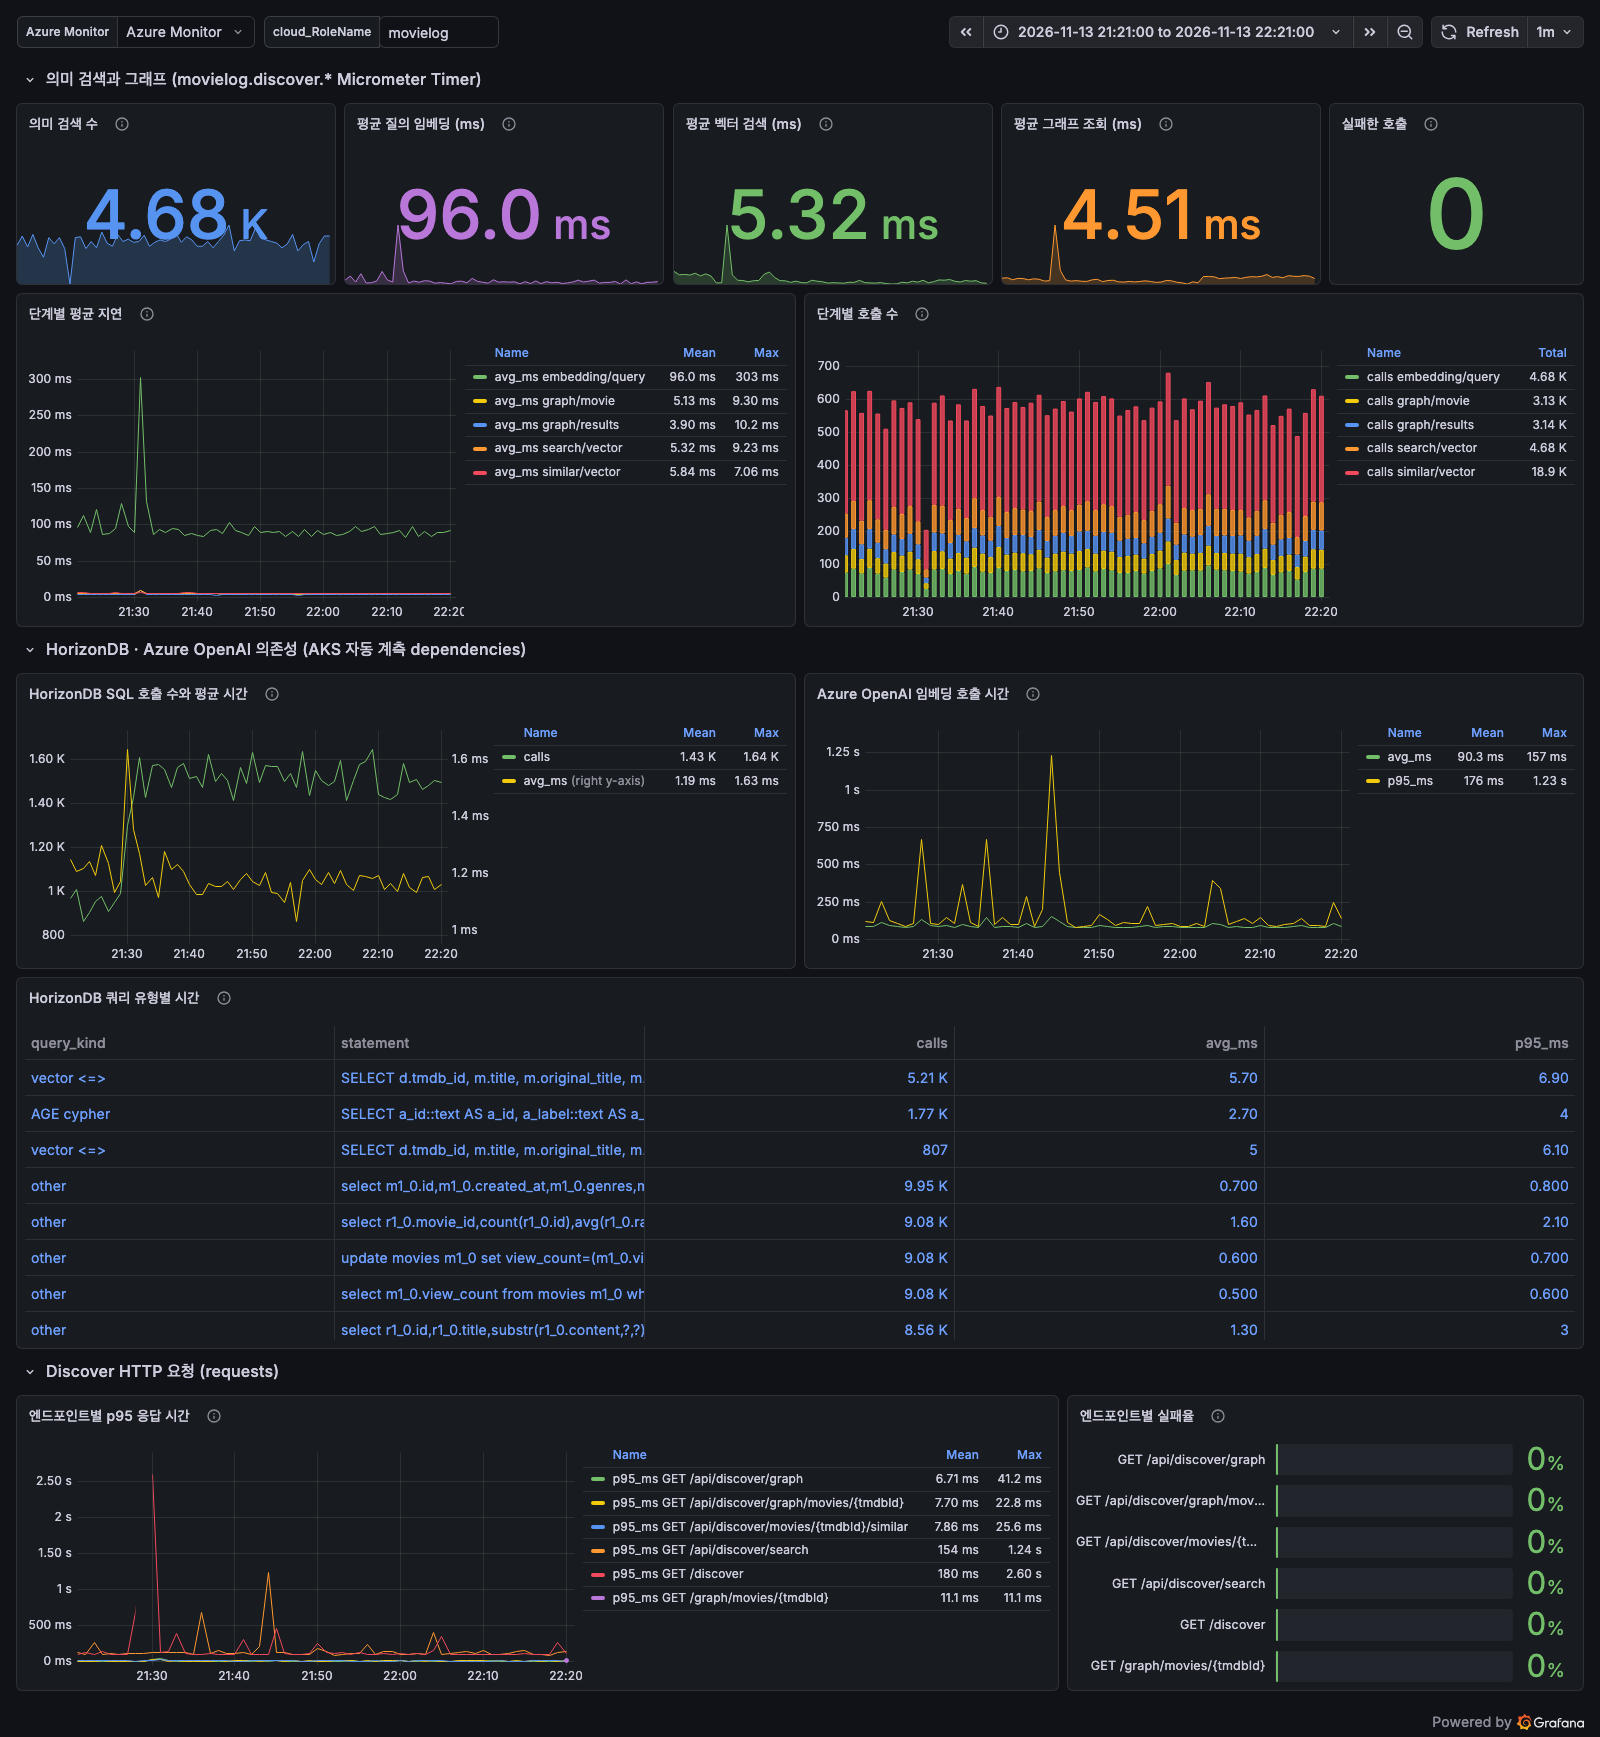
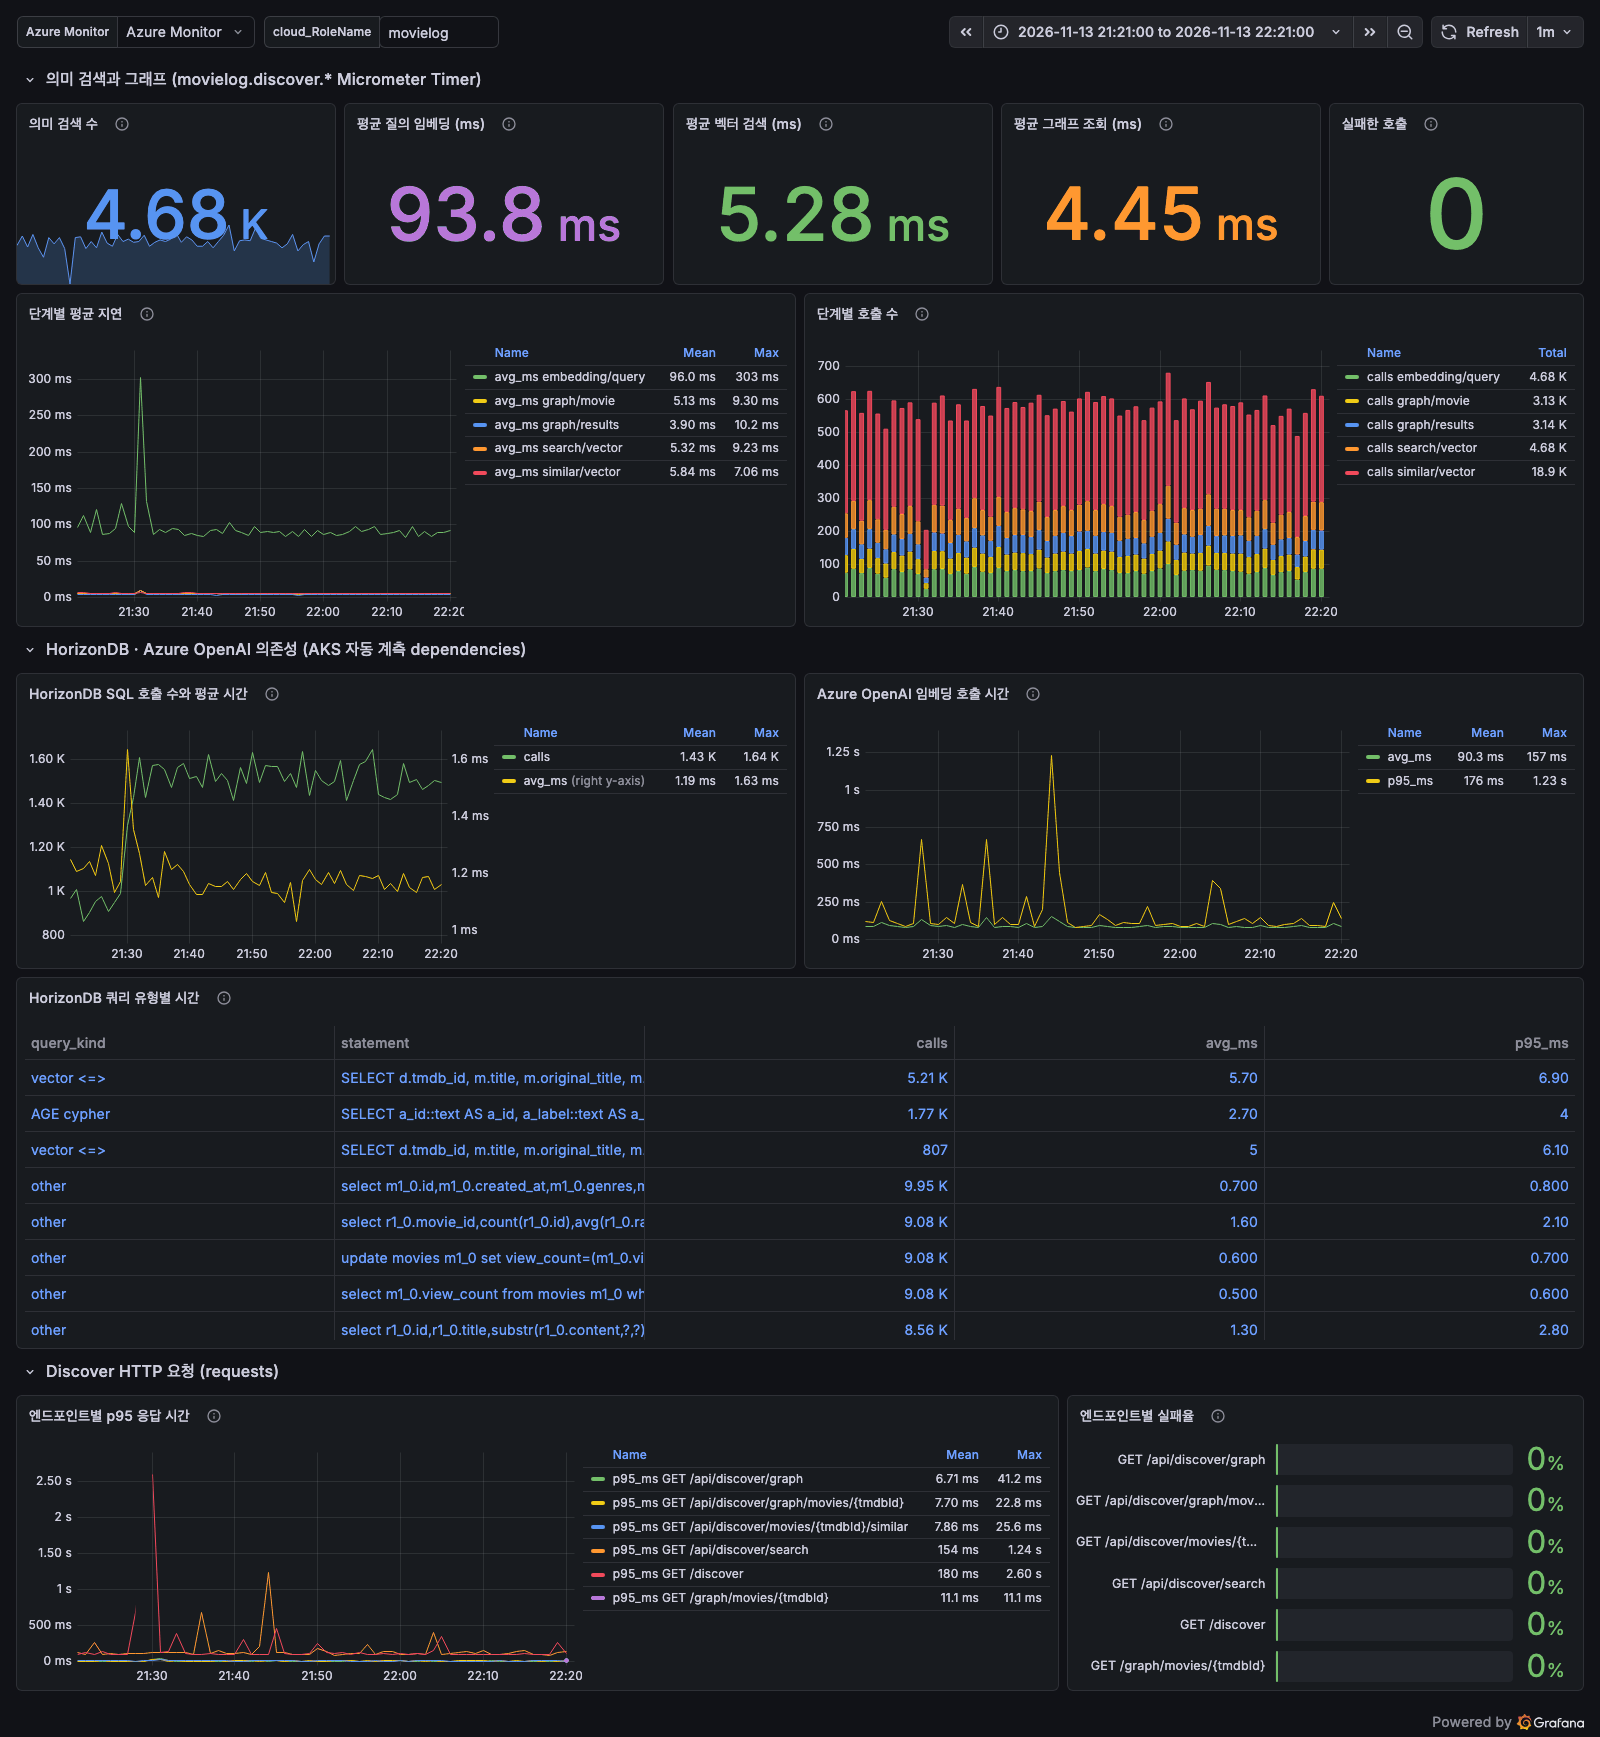
horizondb: '/' 포함 Wikipedia 제목 요약, Grafana 평균 지연 stat, 그래프 관계 텍스트 목록 수정
build_catalog.py가 '8과 1/2'처럼 제목에 '/'가 있는 문서에서 마지막 조각('2')의 요약을 가져오던 문제를 고쳐, /wiki/ 뒤 전체 제목을 한 REST path segment로 인코딩한다. 실습 DB의 해당 영화 줄거리와 임베딩·그래프를 다시 만들었다. 평균 지연 stat 3개는 구간 평균의 평균 대신 선택 기간 전체의 sum(valueSum)/sum(valueCount)를 쓰고, 대시보드 캡처와 본문 수치를 새 값으로 바꿨다. 그래프 화면에는 같은 JSON으로 만든 노드별 관계와 영화 링크 목록을 더해 키보드·스크린 리더로 탐색할 수 있게 했다.

Changed region(s): [[0.625, 0.0933, 0.8125, 0.1865], [0.4062, 0.0933, 0.5938, 0.1865], [0.2188, 0.0933, 0.4062, 0.1865]]

diff --git a/docs/services/azure-horizondb/movielog-graph-vector/samples/movielog-horizondb/src/main/resources/static/js/graph.js b/docs/services/azure-horizondb/movielog-graph-vector/samples/movielog-horizondb/src/main/resources/static/js/graph.js
@@ -1,5 +1,7 @@
-// Renders /api/discover graph JSON with Cytoscape.js and the fCoSE layout (globals from the CDN).
+// Renders /api/discover graph JSON with Cytoscape.js and the fCoSE layout (globals from the CDN),
+// plus the same relations as a text list with links for keyboard and screen-reader users.
 const container = document.getElementById("graph");
+const relationList = document.getElementById("graph-relations");
 
 const COLORS = { Movie: "#6750a4", Person: "#e8a33d", Genre: "#2e7d6b", Similar: "#6750a4" };
 
@@ -49,6 +51,77 @@ function layoutOptions() {
 	return { ...common, name: "cose", nodeRepulsion: () => 40000, idealEdgeLength: edgeLength, nodeOverlap: 40 };
 }
 
+const RELATION_NAMES = { DIRECTED: "감독", ACTED_IN: "출연", IN_GENRE: "장르", SIMILAR_TO: "비슷한 영화" };
+const KIND_ORDER = { Movie: 0, Person: 1, Genre: 2 };
+
+function nodeLabel(node) {
+	return node.year ? `${node.name} (${node.year})` : node.name;
+}
+
+function nodeLink(node, base) {
+	if (node.kind !== "Movie" || node.tmdbId == null || !base) {
+		const span = document.createElement("span");
+		span.textContent = nodeLabel(node);
+		return span;
+	}
+	const link = document.createElement("a");
+	link.className = "link";
+	link.href = `${base}${node.tmdbId}`;
+	link.textContent = nodeLabel(node);
+	return link;
+}
+
+// One item per node: its neighbors grouped by relation type, in the order focus movies, movies, people, genres.
+function renderRelationList(view, base) {
+	if (!relationList) {
+		return;
+	}
+	const byId = new Map(view.nodes.map((node) => [node.id, node]));
+	const relations = new Map(view.nodes.map((node) => [node.id, new Map()]));
+	for (const edge of view.edges) {
+		for (const [from, to] of [[edge.source, edge.target], [edge.target, edge.source]]) {
+			const neighbor = byId.get(to);
+			const groups = relations.get(from);
+			if (!neighbor || !groups) {
+				continue;
+			}
+			if (!groups.has(edge.type)) {
+				groups.set(edge.type, []);
+			}
+			groups.get(edge.type).push({ node: neighbor, score: edge.type === "SIMILAR_TO" ? edge.score : null });
+		}
+	}
+	const ordered = [...view.nodes].sort((a, b) => (b.focus - a.focus) || (KIND_ORDER[a.kind] - KIND_ORDER[b.kind])
+		|| nodeLabel(a).localeCompare(nodeLabel(b), "ko"));
+	const list = document.createElement("ul");
+	for (const node of ordered) {
+		const groups = relations.get(node.id);
+		if (!groups || groups.size === 0) {
+			continue;
+		}
+		const item = document.createElement("li");
+		item.append(nodeLink(node, base));
+		const details = document.createElement("ul");
+		for (const [type, neighbors] of groups) {
+			const line = document.createElement("li");
+			line.append(`${RELATION_NAMES[type] || type}: `);
+			neighbors.forEach(({ node: neighbor, score }, index) => {
+				if (index > 0) {
+					line.append(", ");
+				}
+				line.append(nodeLink(neighbor, base));
+				if (score != null) {
+					line.append(` (${score.toFixed(2)})`);
+				}
+			});
+			details.append(line);
+		}
+		item.append(details);
+		list.append(item);
+	}
+	relationList.replaceChildren(list);
+}
+
 async function render() {
 	if (!container || typeof window.cytoscape !== "function") {
 		return;
@@ -63,6 +136,8 @@ async function render() {
 		container.textContent = "그래프에 연결된 노드가 없습니다.";
 		return;
 	}
+	const base = container.dataset.graphUrl || container.dataset.movieUrl;
+	renderRelationList(view, base);
 	const cy = window.cytoscape({
 		container,
 		elements: toElements(view),
@@ -133,7 +208,6 @@ async function render() {
 	});
 	cy.on("dbltap", "node[kind = 'Movie']", (event) => {
 		const tmdbId = event.target.data("tmdbId");
-		const base = container.dataset.graphUrl || container.dataset.movieUrl;
 		if (tmdbId != null) {
 			window.location.href = `${base}${tmdbId}`;
 		}

diff --git a/docs/services/azure-horizondb/movielog-graph-vector/samples/movielog-horizondb/src/main/resources/templates/discover/graph.html b/docs/services/azure-horizondb/movielog-graph-vector/samples/movielog-horizondb/src/main/resources/templates/discover/graph.html
@@ -12,8 +12,10 @@
 	<p class="secondary-text small-text">
 		감독·배우·장르, 임베딩 기반 <code>SIMILAR_TO</code> 이웃, 같은 인물이 참여한 다른 영화입니다.
 		노드를 누르면 연결된 노드만 강조하고, 영화 노드를 두 번 누르면 그 영화의 그래프로 이동합니다.
+		같은 관계와 영화 링크는 그래프 아래 관계 목록에서도 볼 수 있습니다.
 	</p>
-	<div id="graph" class="graph-canvas graph-canvas-tall round border"
+	<div id="graph" class="graph-canvas graph-canvas-tall round border" role="img"
+		th:aria-label="|${movie.title}의 감독·배우·장르·비슷한 영화 관계 그래프. 같은 내용은 아래 관계 목록에 있습니다.|"
 		th:attr="data-api-url=@{/api/discover/graph/movies/{id}(id=${movie.tmdbId})},data-movie-url=@{/movies/},data-graph-url=@{/graph/movies/}"></div>
 	<nav class="wrap small-space graph-legend">
 		<span class="chip"><span class="dot dot-movie"></span>영화</span>
@@ -21,6 +23,10 @@
 		<span class="chip"><span class="dot dot-genre"></span>장르</span>
 		<span class="chip"><span class="line line-similar"></span>SIMILAR_TO</span>
 	</nav>
+	<details class="graph-relations">
+		<summary>관계 목록 (텍스트)</summary>
+		<div id="graph-relations" aria-live="polite"></div>
+	</details>
 </main>
 
 <footer th:replace="~{fragments/layout :: footer}"></footer>

diff --git a/docs/services/azure-horizondb/movielog-graph-vector/samples/movielog-horizondb/src/main/resources/templates/discover/search.html b/docs/services/azure-horizondb/movielog-graph-vector/samples/movielog-horizondb/src/main/resources/templates/discover/search.html
@@ -27,7 +27,8 @@
 	<th:block th:if="${hits != null}">
 		<section th:unless="${hits.isEmpty()}">
 			<h6>결과 영화 사이의 관계 <span class="small-text secondary-text">(AGE openCypher)</span></h6>
-			<div id="graph" class="graph-canvas round border"
+			<div id="graph" class="graph-canvas round border" role="img"
+				aria-label="결과 영화와 공통 인물·장르·비슷한 영화의 관계 그래프. 같은 내용은 아래 관계 목록에 있습니다."
 				th:attr="data-api-url=@{/api/discover/graph(ids=${#strings.listJoin(hitIds, ',')})},data-movie-url=@{/movies/}"></div>
 			<nav class="wrap small-space graph-legend">
 				<span class="chip"><span class="dot dot-movie"></span>영화</span>
@@ -35,6 +36,10 @@
 				<span class="chip"><span class="dot dot-genre"></span>장르</span>
 				<span class="chip"><span class="line line-similar"></span>SIMILAR_TO</span>
 			</nav>
+			<details class="graph-relations">
+				<summary>관계 목록 (텍스트)</summary>
+				<div id="graph-relations" aria-live="polite"></div>
+			</details>
 		</section>
 
 		<p class="secondary-text">

diff --git a/docs/services/azure-horizondb/movielog-graph-vector/samples/movielog-horizondb/src/main/resources/static/css/app.css b/docs/services/azure-horizondb/movielog-graph-vector/samples/movielog-horizondb/src/main/resources/static/css/app.css
@@ -355,6 +355,16 @@ main.responsive {
 .dot-person { background: #e8a33d; }
 .dot-genre { background: #2e7d6b; transform: rotate(45deg); border-radius: 0; }
 
+.graph-relations {
+	margin-block: 0.5rem 1rem;
+}
+
+.graph-relations ul {
+	margin-block: 0.25rem;
+	padding-inline-start: 1.25rem;
+	list-style: disc;
+}
+
 .line-similar {
 	display: inline-block;
 	width: 1.25rem;

diff --git a/docs/services/azure-horizondb/movielog-graph-vector/samples/movielog-horizondb/data/build_catalog.py b/docs/services/azure-horizondb/movielog-graph-vector/samples/movielog-horizondb/data/build_catalog.py
@@ -213,8 +213,11 @@ def summary(article_url: str | None) -> tuple[str | None, str | None]:
     if not article_url:
         return None, None
     parsed = urllib.parse.urlparse(article_url)
-    title = parsed.path.rsplit("/", 1)[-1]
-    data = http_json(f"{parsed.scheme}://{parsed.netloc}/api/rest_v1/page/summary/{title}", timeout=30)
+    # Titles such as "8과_1/2" or "Face/Off" contain "/": keep everything after /wiki/ and send it as one
+    # REST path segment, otherwise the summary of a different page ("2", "Off") is fetched.
+    title = urllib.parse.unquote(parsed.path.removeprefix("/wiki/"))
+    segment = urllib.parse.quote(title, safe="")
+    data = http_json(f"{parsed.scheme}://{parsed.netloc}/api/rest_v1/page/summary/{segment}", timeout=30)
     extract = (data.get("extract") or "").strip()
     return (extract or None), (article_url if extract else None)
 

diff --git a/docs/services/azure-horizondb/movielog-graph-vector/samples/movielog-horizondb/README.md b/docs/services/azure-horizondb/movielog-graph-vector/samples/movielog-horizondb/README.md
@@ -25,7 +25,7 @@ Gradle Wrapper, `Dockerfile`, `agent-init/`, `k8s/10-instrumentation.yaml`,
 | `db/20-vector-index.sql` | `embedding`에 DiskANN 코사인 index를 만듭니다. |
 | `db/30-graph.sql` | 관계형 카탈로그에서 AGE 그래프 `movie_graph`를 다시 만듭니다. 영화마다 임베딩 최근접 3편을 `SIMILAR_TO`로 잇습니다. |
 | `src/main/java/.../discover/` | 의미 검색(`EmbeddingClient`, `VectorSearchRepository`), 그래프 조회(`MovieGraphRepository`), `movielog.discover.*` Timer를 기록하는 `DiscoverService`, 웹·API controller입니다. |
-| `src/main/resources/templates/discover/`, `static/js/graph.js` | `/discover` 의미 검색 화면과 `/graph/movies/{tmdbId}` 그래프 화면입니다. Cytoscape.js와 라벨 크기까지 계산해 겹침을 피하는 fCoSE 레이아웃으로 그립니다. |
+| `src/main/resources/templates/discover/`, `static/js/graph.js` | `/discover` 의미 검색 화면과 `/graph/movies/{tmdbId}` 그래프 화면입니다. Cytoscape.js와 라벨 크기까지 계산해 겹침을 피하는 fCoSE 레이아웃으로 그리고, 키보드·스크린 리더용 관계 텍스트 목록과 영화 링크를 함께 렌더링합니다. |
 | `k8s/00-namespace.yaml` | namespace와 workload identity ServiceAccount입니다. |
 | `scripts/assemble-app.sh` | 기존 MovieLog sample과 이 sample의 변경 파일을 합쳐 `out/app/`에 앱 소스를 만듭니다. |
 | `k8s/20-movielog.yaml` | HorizonDB 연결(secret)과 Azure OpenAI endpoint를 받는 앱 Deployment입니다. |
@@ -180,13 +180,13 @@ PGDATABASE=movielog psql -f db/10-schema.sql
 BASE=../../../../azure-monitor/aks-spring-boot-micrometer-grafana/samples/movielog-app
 ACR_SERVER="$(az acr show -n "$ACR" --query loginServer -o tsv)"
 scripts/assemble-app.sh
-az acr build -r "$ACR" -t movielog:2.1.3 --platform linux/amd64 out/app
+az acr build -r "$ACR" -t movielog:2.1.4 --platform linux/amd64 out/app
 az acr build -r "$ACR" -t observability/applicationinsights-agent:3.7.10 --platform linux/amd64 out/app/agent-init
 az aks get-credentials -g $RG -n aks-movielog-hz
 
 export MI_CLIENT_ID="$(az identity show -g $RG -n id-movielog-app --query clientId -o tsv)"
 export AZURE_OPENAI_ENDPOINT="https://$AOAI.openai.azure.com/"
-export APP_IMAGE="$ACR_SERVER/movielog:2.1.3"
+export APP_IMAGE="$ACR_SERVER/movielog:2.1.4"
 export APPLICATIONINSIGHTS_CONNECTION_STRING="$(az monitor app-insights component show \
   -g $RG -a appi-movielog-hz --query connectionString -o tsv)"
 envsubst < k8s/00-namespace.yaml | kubectl apply -f -
